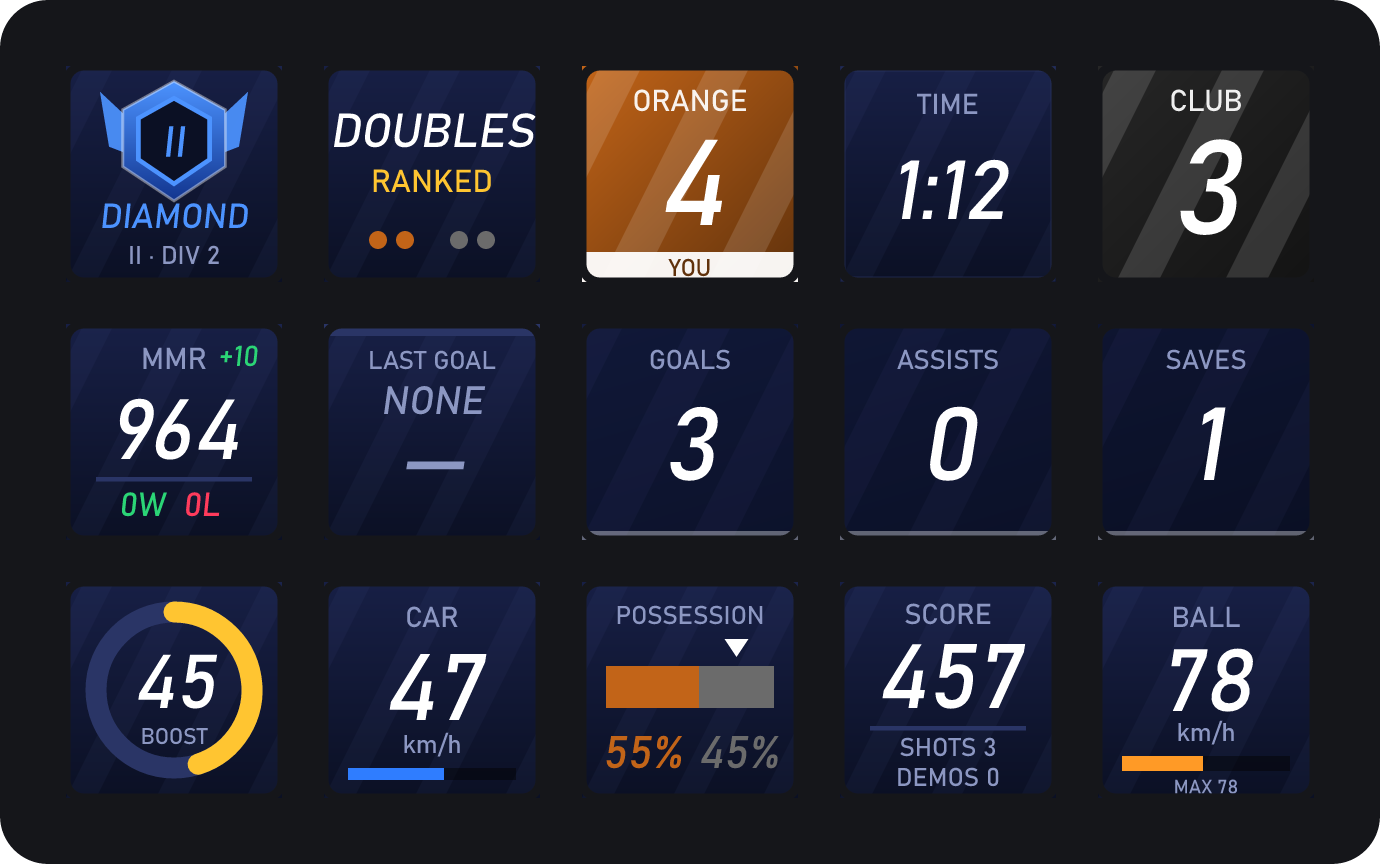
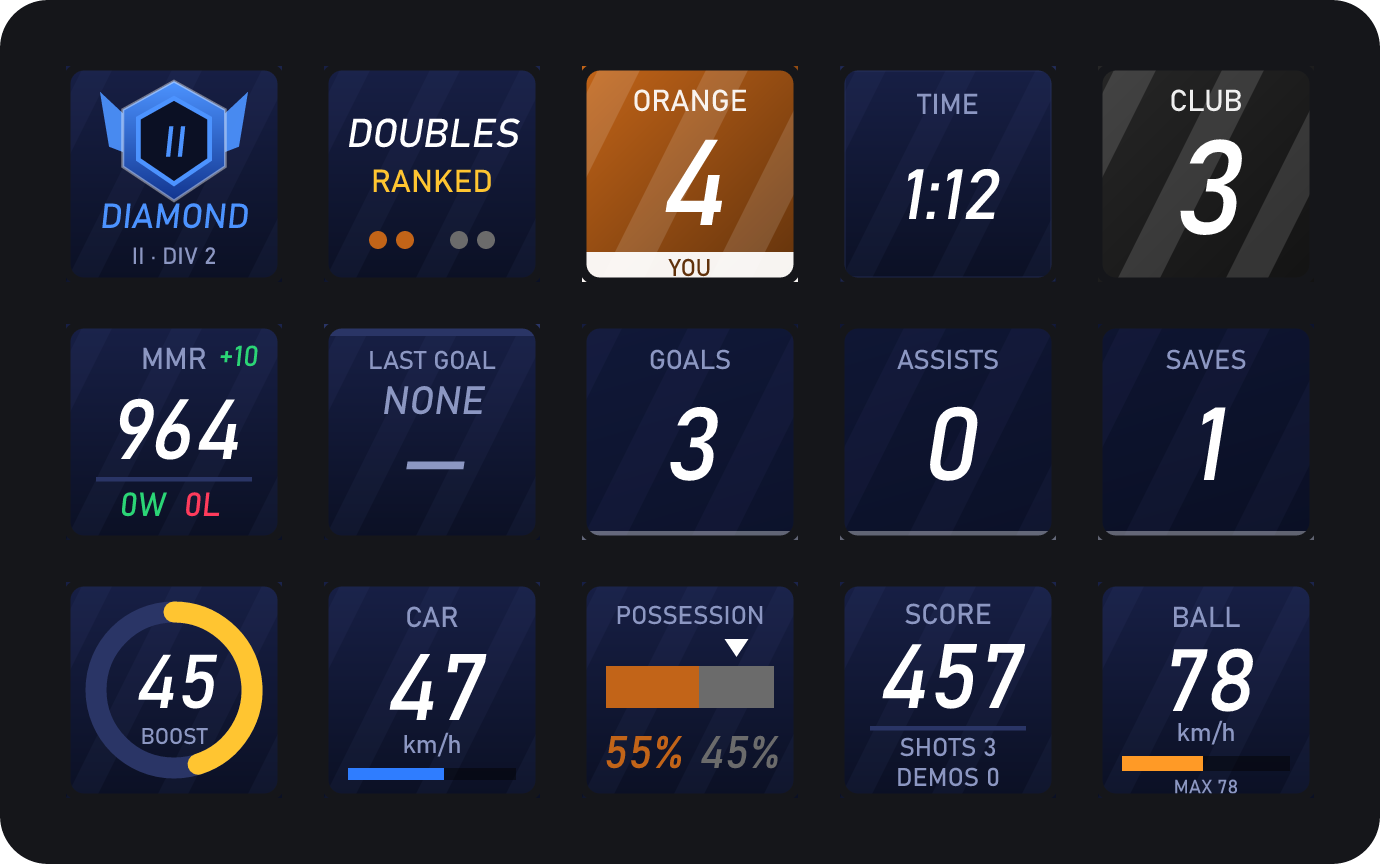
Keep key text inside the visible area of the real keys (safe width 56 px)

Changed region(s): [[0.2181, 0.125, 0.4051, 0.1875], [0.6543, 0.1875, 0.7478, 0.25], [0.0935, 0.2812, 0.1558, 0.3125]]

diff --git a/src/ui/keys.ts b/src/ui/keys.ts
@@ -45,8 +45,8 @@ function rankKey(ctx: RenderCtx): string {
 		return doc(
 			panel() +
 				(ctx.rankIcon?.(0) ? iconBadge(ctx.rankIcon(0)!, 36, 25) : emblem(none, 36, 25, 0.95, "—")) +
-				text(t(lang, "unranked"), { y: 54, size: 11.5, fill: none.color, skew: -6, maxWidth: 66 }) +
-				text(pl.name.toUpperCase(), { y: 66, size: 8.5, fill: COLORS.dim, maxWidth: 66 }) +
+				text(t(lang, "unranked"), { y: 54, size: 11.5, fill: none.color, skew: -6, maxWidth: 56 }) +
+				text(pl.name.toUpperCase(), { y: 66, size: 8.5, fill: COLORS.dim, maxWidth: 56 }) +
 				veil(ctx),
 		);
 	}
@@ -56,8 +56,8 @@ function rankKey(ctx: RenderCtx): string {
 	return doc(
 		panel() +
 			(ctx.rankIcon?.(tier.id) ? iconBadge(ctx.rankIcon(tier.id)!, 36, 25) : emblem(tier, 36, 25, 0.95)) +
-			text(tier.rank === 0 ? t(lang, "setRank") : tier.family, { y: 54, size: tier.rank === 0 ? 10 : 11.5, fill: tier.color, skew: -6, maxWidth: 66 }) +
-			text(tier.roman && tier.rank !== 8 ? `${tier.roman}${div ? "  ·  " + div : ""}` : div || pl.name.toUpperCase(), { y: 66, size: 8.5, fill: COLORS.dim, maxWidth: 66 }) +
+			text(tier.rank === 0 ? t(lang, "setRank") : tier.family, { y: 54, size: tier.rank === 0 ? 10 : 11.5, fill: tier.color, skew: -6, maxWidth: 56 }) +
+			text(tier.roman && tier.rank !== 8 ? `${tier.roman}${div ? "  ·  " + div : ""}` : div || pl.name.toUpperCase(), { y: 66, size: 8.5, fill: COLORS.dim, maxWidth: 56 }) +
 			veil(ctx),
 	);
 }
@@ -76,9 +76,9 @@ function mmrKey(ctx: RenderCtx): string {
 	const delta = auto?.delta;
 	return doc(
 		panel() +
-			text(!pl.ranked && has ? t(lang, "mmrCasual") : "MMR", { y: 15, size: !pl.ranked && has ? 8.5 : 10, fill: COLORS.dim, maxWidth: 66 }) +
+			text(!pl.ranked && has ? t(lang, "mmrCasual") : "MMR", { y: 15, size: !pl.ranked && has ? 8.5 : 10, fill: COLORS.dim, maxWidth: 56 }) +
 			(delta ? text(`${delta > 0 ? "+" : "−"}${Math.abs(delta)}`, { x: 64, y: 14, size: 9.5, fill: delta > 0 ? COLORS.green : COLORS.red, anchor: "end", skew: -6 }) : "") +
-			text(has ? String(value) : "—", { y: 45, size: has ? 28 : 26, fill: has ? "#ffffff" : COLORS.dim, skew: -9, maxWidth: 66 }) +
+			text(has ? String(value) : "—", { y: 45, size: has ? 28 : 26, fill: has ? "#ffffff" : COLORS.dim, skew: -9, maxWidth: 56 }) +
 			`<rect x="10" y="51" width="52" height="1.5" fill="${COLORS.line}"/>` +
 			text(`${wins}${t(lang, "w")}`, { x: 33, y: 64, size: 11, fill: COLORS.green, anchor: "end", skew: -6 }) +
 			text(`${losses}${t(lang, "l")}`, { x: 39, y: 64, size: 11, fill: COLORS.red, anchor: "start", skew: -6 }) +
@@ -95,8 +95,8 @@ function modeKey(ctx: RenderCtx): string {
 	const pl = currentPlaylist(ctx);
 	return doc(
 		panel() +
-			text(pl.name.toUpperCase(), { y: 27, size: 16, skew: -9, maxWidth: 66 }) +
-			text(pl.ranked ? t(lang, "ranked_") : t(lang, "unranked"), { y: 42, size: 10.5, fill: pl.ranked ? COLORS.gold : COLORS.dim, maxWidth: 66 }) +
+			text(pl.name.toUpperCase(), { y: 27, size: 14, skew: -9, maxWidth: 56 }) +
+			text(pl.ranked ? t(lang, "ranked_") : t(lang, "unranked"), { y: 42, size: 10.5, fill: pl.ranked ? COLORS.gold : COLORS.dim, maxWidth: 56 }) +
 			teamDots(pl.size ?? ctx.store.teamSize() ?? 3, 36, 58, teamLook(s, sideTeams(s, ctx.settings.scoreOrder)[0]).accent, teamLook(s, sideTeams(s, ctx.settings.scoreOrder)[1]).accent) +
 			veil(ctx),
 	);
@@ -118,8 +118,8 @@ function teamKey(ctx: RenderCtx, side: 0 | 1): string {
 		linear("t", look.c1, look.c2, false) +
 			`<rect width="72" height="72" fill="url(#t)"/>` +
 			stripes(72, 72, 6, 0.13, look.ink) +
-			text(teamLabel(s, team, t(lang, team === 0 ? "blue" : "orange")), { y: 15, size: 10, fill: look.ink, opacity: 0.92, maxWidth: 64 }) +
-			text(String(s.scores[team]), { y: mine ? 53 : 56, size: mine ? 40 : 44, fill: look.ink, skew: -9, maxWidth: 62 }) +
+			text(teamLabel(s, team, t(lang, team === 0 ? "blue" : "orange")), { y: 15, size: 10, fill: look.ink, opacity: 0.92, maxWidth: 56 }) +
+			text(String(s.scores[team]), { y: mine ? 53 : 56, size: mine ? 40 : 44, fill: look.ink, skew: -9, maxWidth: 56 }) +
 			(mine ? `<rect x="0" y="62" width="72" height="10" fill="${look.ink}" fill-opacity="0.94"/>` + text(t(lang, "you"), { y: 70, size: 8, fill: look.c2 }) : "") +
 			(flashOpacity > 0 ? `<rect width="72" height="72" fill="#ffffff" fill-opacity="${flashOpacity.toFixed(2)}"/>` : "") +
 			veil(ctx),
@@ -138,8 +138,8 @@ function timerKey(ctx: RenderCtx): string {
 	return doc(
 		panel() +
 			frame(s.overtime ? COLORS.orange1 : urgent ? COLORS.red : COLORS.line) +
-			text(label, { y: 16, size: 9.5, fill: s.overtime || s.paused ? COLORS.orange1 : COLORS.dim, maxWidth: 62 }) +
-			text(clock, { y: 51, size: 30, fill: live ? color : COLORS.dim, skew: -9, maxWidth: 66 }) +
+			text(label, { y: 16, size: 9.5, fill: s.overtime || s.paused ? COLORS.orange1 : COLORS.dim, maxWidth: 56 }) +
+			text(clock, { y: 51, size: 30, fill: live ? color : COLORS.dim, skew: -9, maxWidth: 56 }) +
 			veil(ctx),
 	);
 }
@@ -155,9 +155,9 @@ function lastGoalKey(ctx: RenderCtx): string {
 	return doc(
 		panel() +
 			`<rect width="72" height="4" fill="${barColor}"/>` +
-			text(t(lang, "lastGoal"), { y: 15, size: 8.5, fill: COLORS.dim, maxWidth: 66 }) +
-			text(g ? g.scorer : t(lang, "noGoal"), { y: 30, size: 13, fill: g ? "#ffffff" : COLORS.dim, skew: -8, maxWidth: 66 }) +
-			text(speed && speed.value > 0 ? String(speed.value) : "—", { y: 54, size: 27, fill: g ? barColor : COLORS.dim, skew: -9, maxWidth: 66 }) +
+			text(t(lang, "lastGoal"), { y: 15, size: 8.5, fill: COLORS.dim, maxWidth: 56 }) +
+			text(g ? g.scorer : t(lang, "noGoal"), { y: 30, size: 13, fill: g ? "#ffffff" : COLORS.dim, skew: -8, maxWidth: 56 }) +
+			text(speed && speed.value > 0 ? String(speed.value) : "—", { y: 54, size: 27, fill: g ? barColor : COLORS.dim, skew: -9, maxWidth: 56 }) +
 			text(speed ? speed.unit : "", { y: 66, size: 9, fill: COLORS.dim }) +
 			veil(ctx),
 	);
@@ -175,7 +175,7 @@ function speedKey(ctx: RenderCtx): string {
 	return doc(
 		panel() +
 			text(t(lang, "ball"), { y: 15, size: 9.5, fill: COLORS.dim }) +
-			text(String(v.value), { y: 43, size: 29, fill: "#ffffff", skew: -9, maxWidth: 66 }) +
+			text(String(v.value), { y: 43, size: 29, fill: "#ffffff", skew: -9, maxWidth: 56 }) +
 			text(v.unit, { y: 53, size: 8.5, fill: COLORS.dim }) +
 			`<rect x="8" y="58" width="56" height="5" fill="#000000" fill-opacity="0.45"/>` +
 			(barW > 0 ? `<rect x="8" y="58" width="${barW}" height="5" fill="${hot}"/>` : "") +

diff --git a/src/ui/banner.ts b/src/ui/banner.ts
@@ -22,7 +22,7 @@ const keyX = (i: number) => i * (KEY + KEY_GAP) + KEY / 2;
  * sub-line goes through here; only large headlines are allowed to span keys.
  */
 function fitLine(str: string, o: { x: number; y: number; size: number; fill: string; opacity?: number; skew?: number; maxWidth?: number; minSize?: number }): string {
-	const maxWidth = o.maxWidth ?? KEY - 6;
+	const maxWidth = o.maxWidth ?? KEY - 16;
 	const minSize = o.minSize ?? 9;
 	let size = o.size;
 	let out = str;
@@ -93,7 +93,7 @@ function scene(ctx: RenderCtx, banner: Banner | undefined): Scene {
 		const centre = (inner: string) => `<g transform="translate(${cx} 36) scale(${pop.toFixed(3)}) translate(${-cx} -36)">${inner}</g>`;
 		// Headline rule: a title either fits inside the middle key, or is long enough to span all three.
 		// Anything in between would put half a glyph into a physical gap, so it is shrunk to the middle key.
-		const MID_MAX = 68;
+		const MID_MAX = 58;
 		const headlineSize = (str: string, base: number) => {
 			const w = estimateWidth(str, base);
 			if (w <= MID_MAX) return base;
@@ -119,7 +119,7 @@ function scene(ctx: RenderCtx, banner: Banner | undefined): Scene {
 					animated: true,
 					content: centre(
 						text(sp.unit.toUpperCase(), { x: left, y: 15, size: 9.5, fill: l.ink, opacity: 0.8 }) +
-							text(sp.value > 0 ? String(sp.value) : "—", { x: left, y: 46, size: 31, fill: l.ink, skew: -9, maxWidth: 66 }) +
+							text(sp.value > 0 ? String(sp.value) : "—", { x: left, y: 46, size: 31, fill: l.ink, skew: -9, maxWidth: 56 }) +
 							big(t(lang, "goal"), 38, 30) +
 							text(banner.assist ? t(lang, "assist") : "", { x: right, y: 15, size: 9.5, fill: l.ink, opacity: 0.8 }) +
 							nameIn(banner.assist ?? teamName, right, banner.assist ? 44 : 42, banner.assist ? 15 : 12) +
@@ -165,7 +165,7 @@ function scene(ctx: RenderCtx, banner: Banner | undefined): Scene {
 			}
 			case "countdown": {
 				const left = Math.max(1, Math.min(3, Math.ceil((3000 - age) / 1000)));
-				return { look: l, animated: true, content: big(String(left), 52, 50) + text(t(lang, "kickoff"), { x: keyX(0), y: 42, size: 9, fill: l.ink, opacity: 0.75, maxWidth: 66 }) };
+				return { look: l, animated: true, content: big(String(left), 52, 50) + text(t(lang, "kickoff"), { x: keyX(0), y: 42, size: 9, fill: l.ink, opacity: 0.75, maxWidth: 56 }) };
 			}
 			case "go":
 				return { look: l, animated: true, content: centre(big(t(lang, "go"), 48, 38)) };
@@ -199,8 +199,8 @@ function scene(ctx: RenderCtx, banner: Banner | undefined): Scene {
 			content:
 				fitLine(t(lang, "restartA"), { x: keyX(0), y: 33, size: 11, fill: COLORS.dim, skew: 0 }) +
 				fitLine(t(lang, "restartB"), { x: keyX(0), y: 48, size: 11, fill: COLORS.dim, skew: 0 }) +
-				text(t(lang, "restartTitle"), { x: cx, y: 33, size: 17, fill: COLORS.gold, skew: -9, maxWidth: 66 }) +
-				text(t(lang, "restartWord"), { x: cx, y: 56, size: 24, fill: COLORS.gold, skew: -9, maxWidth: 66 }) +
+				text(t(lang, "restartTitle"), { x: cx, y: 33, size: 17, fill: COLORS.gold, skew: -9, maxWidth: 56 }) +
+				text(t(lang, "restartWord"), { x: cx, y: 56, size: 24, fill: COLORS.gold, skew: -9, maxWidth: 56 }) +
 				arc,
 		};
 	}
@@ -215,7 +215,7 @@ function scene(ctx: RenderCtx, banner: Banner | undefined): Scene {
 	let out = "";
 	for (let i = 0; i < 3; i++) {
 		const x = keyX(i);
-		out += text(labels[i]!, { x, y: 15, size: 9, fill: COLORS.dim, maxWidth: 62 });
+		out += text(labels[i]!, { x, y: 15, size: 9, fill: COLORS.dim, maxWidth: 56 });
 		out += text(String(values[i]), { x, y: 52, size: 34, fill: "#ffffff", skew: -9 });
 	}
 	return { look: IDLE, animated: false, content: out };

diff --git a/src/ui/live-keys.ts b/src/ui/live-keys.ts
@@ -58,8 +58,8 @@ export function carSpeedKey(ctx: RenderCtx): string {
 	const bg = sonic ? linear("cs", "#e11d8a", "#3b1a8f") + `<rect width="72" height="72" fill="url(#cs)"/>` + stripes(72, 72, 6, 0.14) : panel();
 	return doc(
 		bg +
-			text(sonic ? t(lang, "supersonic") : t(lang, "carSpeed"), { y: 15, size: 9.5, fill: sonic ? "#ffffff" : COLORS.dim, opacity: sonic && !blink ? 0.55 : 1, maxWidth: 66 }) +
-			text(v ? String(v.value) : me ? "n/d" : "—", { y: 46, size: v ? 31 : 24, fill: v ? "#ffffff" : COLORS.dim, skew: -9, maxWidth: 66 }) +
+			text(sonic ? t(lang, "supersonic") : t(lang, "carSpeed"), { y: 15, size: 9.5, fill: sonic ? "#ffffff" : COLORS.dim, opacity: sonic && !blink ? 0.55 : 1, maxWidth: 56 }) +
+			text(v ? String(v.value) : me ? "n/d" : "—", { y: 46, size: v ? 31 : 24, fill: v ? "#ffffff" : COLORS.dim, skew: -9, maxWidth: 56 }) +
 			text(v ? v.unit : "", { y: 57, size: 8.5, fill: sonic ? "#ffd3f0" : COLORS.dim }) +
 			`<rect x="8" y="62" width="56" height="4" fill="#000000" fill-opacity="0.45"/>` +
 			(barW > 0 ? `<rect x="8" y="62" width="${barW}" height="4" fill="${sonic ? "#ffffff" : COLORS.blue1}"/>` : "") +
@@ -83,7 +83,7 @@ export function possessionKey(ctx: RenderCtx): string {
 	const markX = s.ballTeam === undefined || !live ? undefined : s.ballTeam === leftTeam ? 8 + leftW / 2 : 8 + leftW + (barW - leftW) / 2;
 	return doc(
 		panel() +
-			text(t(lang, "possession"), { y: 14, size: 8.5, fill: COLORS.dim, maxWidth: 66 }) +
+			text(t(lang, "possession"), { y: 14, size: 8.5, fill: COLORS.dim, maxWidth: 56 }) +
 			(markX !== undefined ? `<polygon points="${markX - 4},19 ${markX + 4},19 ${markX},25" fill="#ffffff"/>` : "") +
 			`<rect x="8" y="28" width="${barW}" height="14" fill="${COLORS.line}"/>` +
 			(pct ? `<rect x="8" y="28" width="${leftW}" height="14" fill="${leftColor}"/><rect x="${8 + leftW}" y="28" width="${barW - leftW}" height="14" fill="${rightColor}"/>` : "") +
@@ -99,10 +99,10 @@ export function pointsKey(ctx: RenderCtx): string {
 	return doc(
 		panel() +
 			text(t(lang, "points"), { y: 14, size: 9.5, fill: COLORS.dim }) +
-			text(me ? String(me.score) : "—", { y: 42, size: 30, fill: me ? "#ffffff" : COLORS.dim, skew: -9, maxWidth: 66 }) +
+			text(me ? String(me.score) : "—", { y: 42, size: 30, fill: me ? "#ffffff" : COLORS.dim, skew: -9, maxWidth: 56 }) +
 			`<rect x="10" y="48" width="52" height="1.5" fill="${COLORS.line}"/>` +
-			text(me ? `${t(lang, "shots")} ${me.shots}` : "", { y: 58, size: 8.5, fill: COLORS.dim, maxWidth: 64 }) +
-			text(me ? `${t(lang, "demosLabel")} ${me.demos}` : "", { y: 68, size: 8.5, fill: COLORS.dim, maxWidth: 64 }) +
+			text(me ? `${t(lang, "shots")} ${me.shots}` : "", { y: 58, size: 8.5, fill: COLORS.dim, maxWidth: 56 }) +
+			text(me ? `${t(lang, "demosLabel")} ${me.demos}` : "", { y: 68, size: 8.5, fill: COLORS.dim, maxWidth: 56 }) +
 			veil(ctx),
 	);
 }
